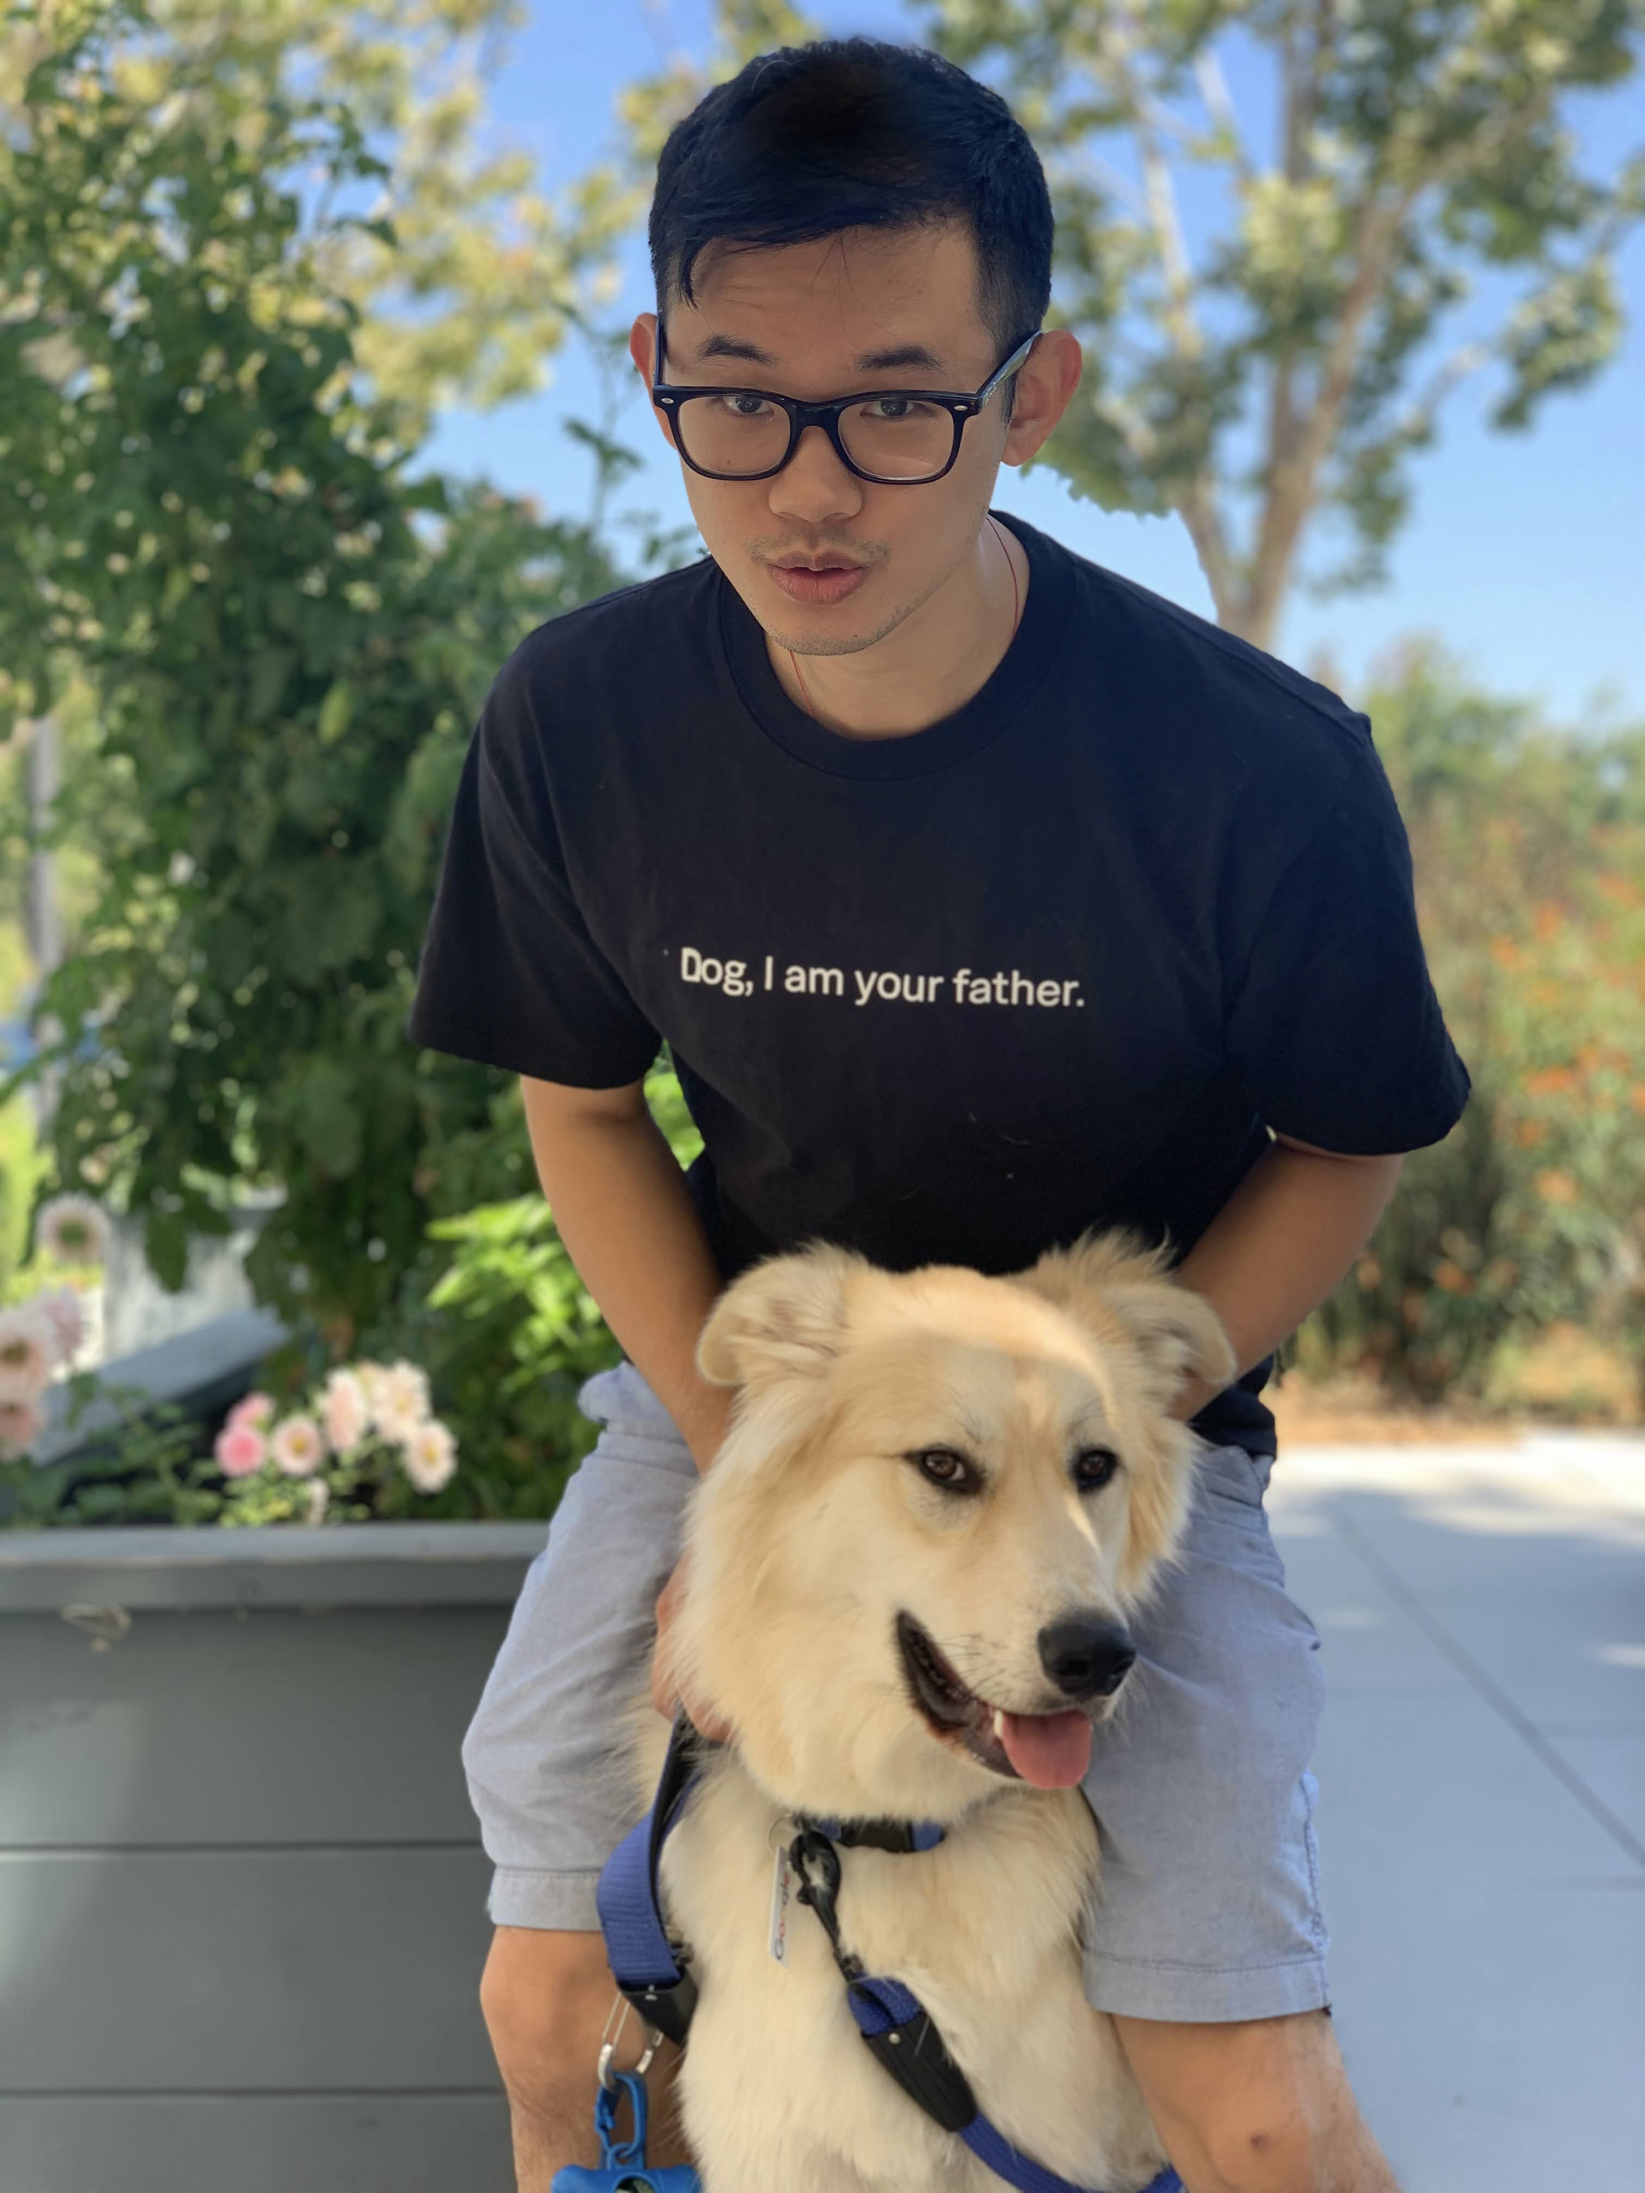
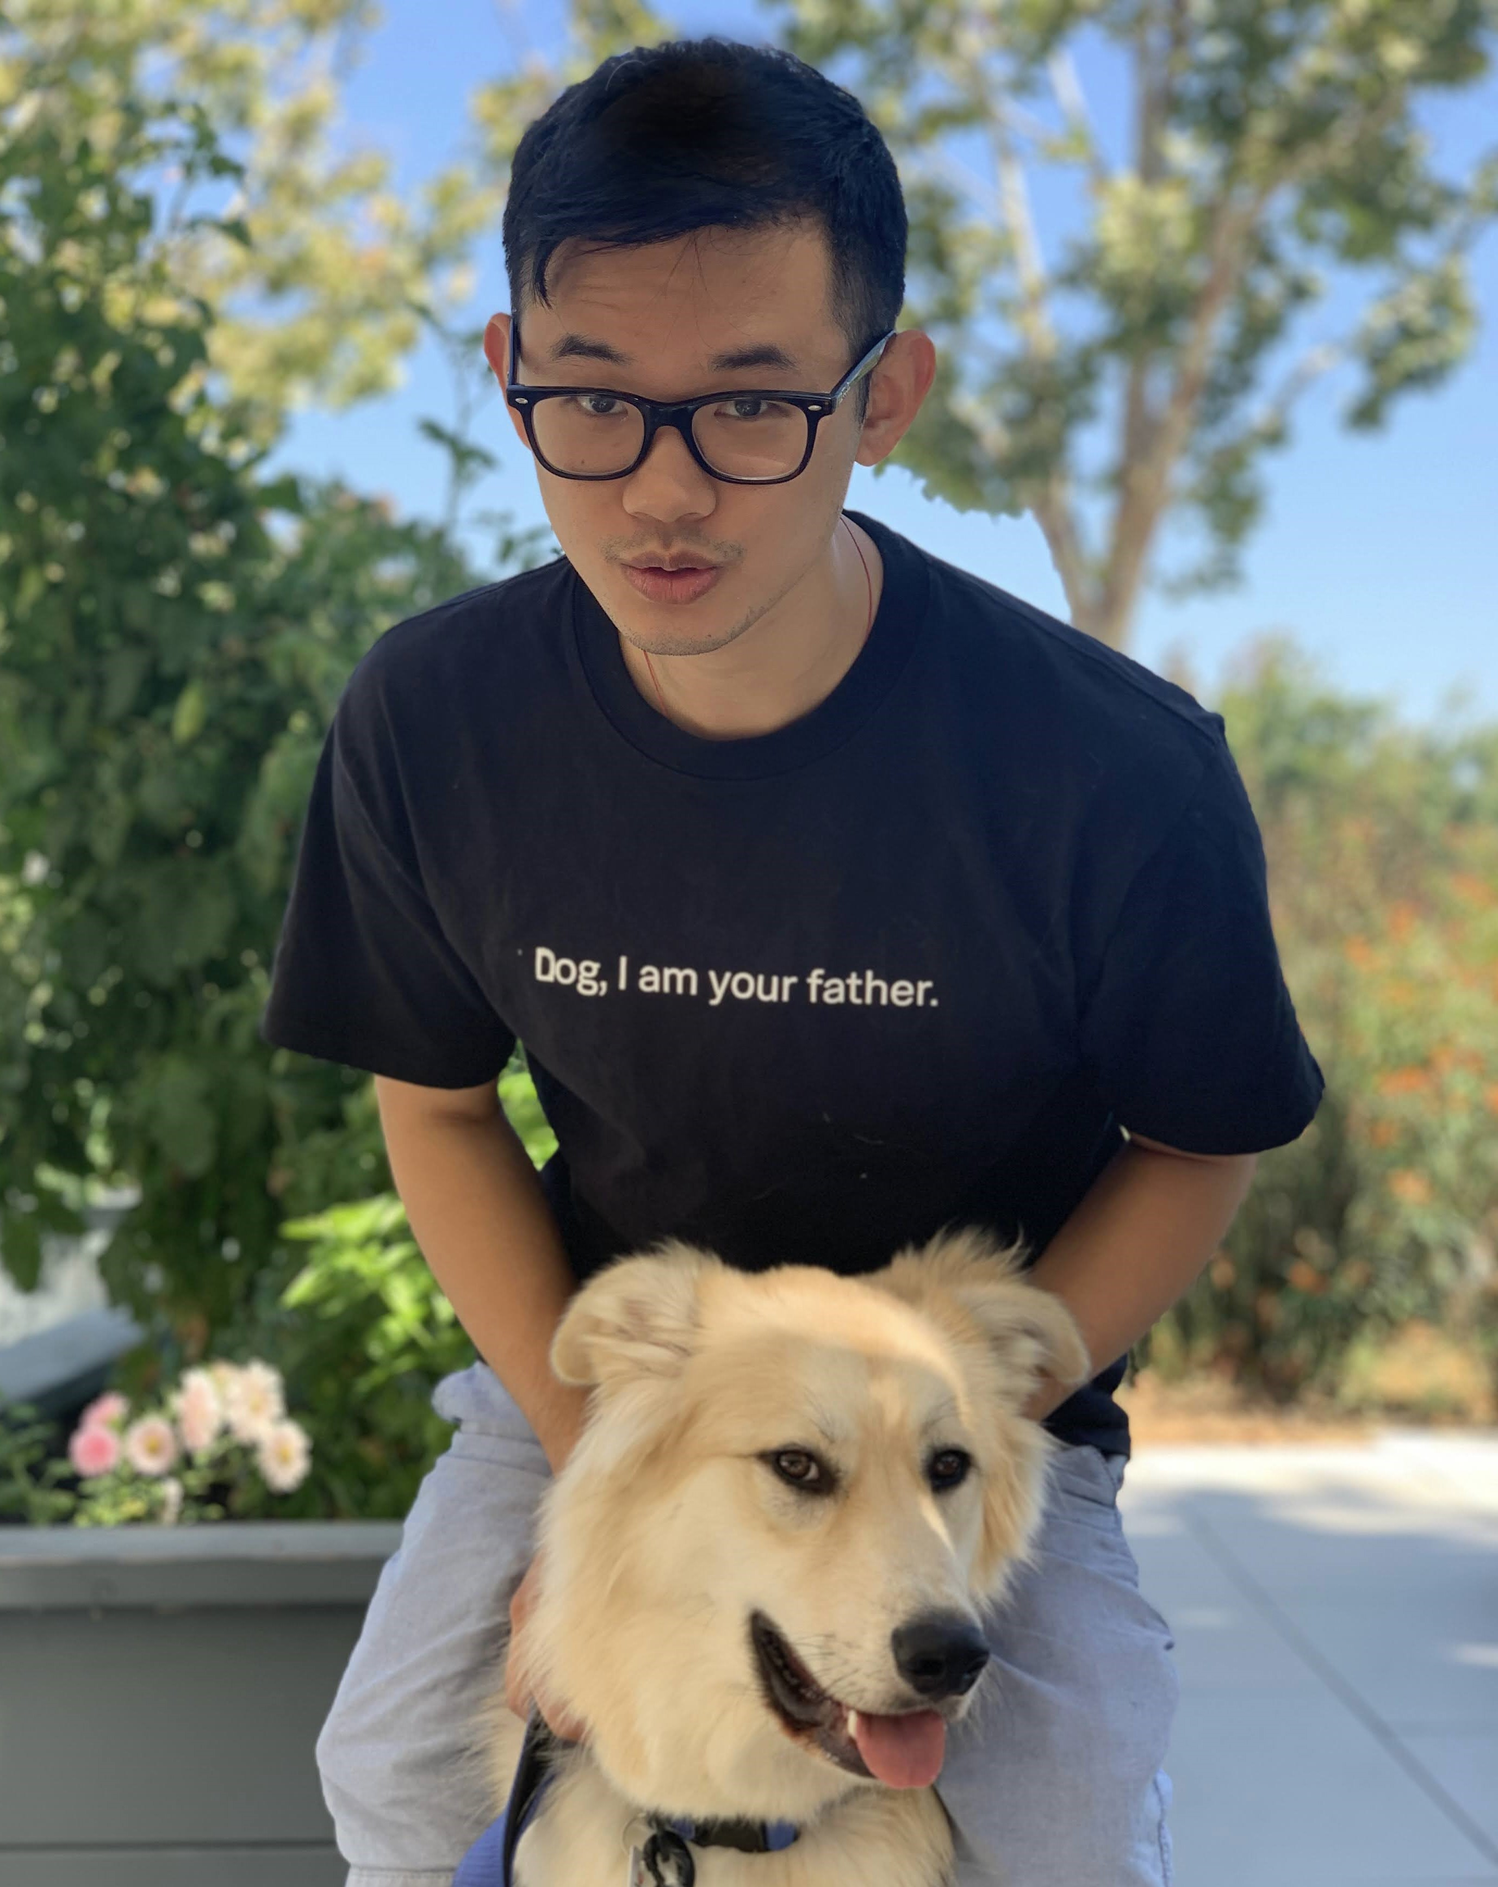
fix heroImg not centered correctly, fix siteLogo & heroWrapper padding when resized small

diff --git a/src/components/Hero.js b/src/components/Hero.js
@@ -31,9 +31,7 @@ export default function Hero({ data }) {
             </TextWrapper>
           </Column1>
           <Column2>
-            <ImgWrap>
               <HeroGatsbyImage image={portraitImg} alt="Portrait" />
-            </ImgWrap>
           </Column2>
         </HeroItems>
       </HeroWrapper>
@@ -91,7 +89,7 @@ const Heading = styled.h1`
   font-weight: 600;
   color: lightgoldenrodyellow;
   @media screen and (max-width: 480px) {
-    font-size: 28px;
+    font-size: 33px;
   }
 `;
 const Subtitle = styled.p`
@@ -103,7 +101,7 @@ const Subtitle = styled.p`
   color: #d2d2fa;
 
   @media screen and (max-width: 480px) {
-    font-size: 18px;
+    font-size: 20px;
   }
 `;
 const Paragraph = styled.p`
@@ -113,20 +111,20 @@ const Paragraph = styled.p`
   font-weight: 300;
   color: whitesmoke;
   @media screen and (max-width: 480px) {
-    font-size: 16px;
+    font-size: 17px;
   }
 `;
 
-const ImgWrap = styled.div`
-  max-width: 420px;
-  height: 100%;
-`;
 const HeroGatsbyImage = styled(GatsbyImage)`
+  position:relative;
+  left: 50%;
+  transform: translate(-50%, 0%);
+  max-width: 420px;
   width: 100%;
   height: auto;
   margin: 0 0 10px 0;
   padding-right: 0;
-  border-radius: 60px;
+  border-radius: 100px;
   opacity: 0.95;
 `;
 
@@ -143,7 +141,7 @@ const HeroBg = styled.div`
 
 const VideoBg = styled.video`
   width: 100%;
-  height: 200%;
+  height: 100%;
   -o-object-fit: cover;
   object-fit: cover;
   /* opacity: 0.38; */
@@ -158,14 +156,9 @@ const HeroWrapper = styled.div`
   max-height: 100%;
   margin-right: auto;
   margin-left: auto;
-  padding: 0rem calc((100vw-1300px) / 2);
-  /* padding: 0 24px; */
+  /* padding: 0rem calc((100vw-1300px) / 2); */
+  padding: 0 12px;
   justify-content: center;
-
-  /* z-index: 3;
-  height: calc(100vh - 80px);
-  padding: 0rem calc((100vw-1300px) / 2);
-  max-height: 100%; */
 `;
 
 const HeroItems = styled.div`

diff --git a/src/components/navbar.js b/src/components/navbar.js
@@ -64,9 +64,9 @@ const NavbarContainer = styled.div`
   z-index: 1;
   width: 100%;
   padding: 0 24px;
-  @media screen and (max-width: 768px) {
+  /* @media screen and (max-width: 800px) {
     padding: 0 12px;
-  }
+  } */
   /* max-width: 1100px; */
 `;
 
@@ -96,7 +96,7 @@ const NavMenu = styled.div`
   display: flex;
   align-items: center;
   margin-right: -48px;
-  @media screen and (max-width: 768px) {
+  @media screen and (max-width: 800px) {
     display: none;
   }
 `;
@@ -106,7 +106,7 @@ const NavBtn = styled.div`
   align-items: center;
   margin-right: 24px;
 
-  @media screen and (max-width: 768px) {
+  @media screen and (max-width: 800px) {
     display: none;
   }
 `;
@@ -115,7 +115,7 @@ const Bars = styled(FaBars)`
   display: none;
   color: whitesmoke;
 
-  @media screen and (max-width: 768px) {
+  @media screen and (max-width: 800px) {
     display: block;
     position: absolute;
     top: 0;

diff --git a/src/styles/globalStyles.js b/src/styles/globalStyles.js
@@ -1,13 +1,13 @@
-import "@fontsource/roboto"; // Defaults to weight 400.
+import "@fontsource/montserrat"; // Defaults to weight 400.
+import "@fontsource/open-sans"; // Defaults to weight 400.
 import { createGlobalStyle } from "styled-components";
 
 export const GlobalStyle = createGlobalStyle`
 * {
-    font-family: 'Roboto', sans-serif;
+    font-family: 'Montserrat';
     box-sizing: border-box;
     margin: 0;
     padding: 0;
-
   }
 
 body {

diff --git a/src/pages/index.js b/src/pages/index.js
@@ -14,7 +14,7 @@ export default function Home({ data }) {
 
 export const query = graphql`
   query Banner {
-    file(relativePath: { eq: "images/cloud2.jpg" }) {
+    file(relativePath: { eq: "images/cloud1.jpg" }) {
       childImageSharp {
         gatsbyImageData(
           layout: FULL_WIDTH

diff --git a/src/styles/Button.js b/src/styles/Button.js
@@ -6,6 +6,7 @@ export const Button = styled(Link)`
   white-space: nowrap;
   padding: ${({ big }) => (big ? `16px 40px` : `10px 32px`)};
   font-size: ${({ big }) => (big ? `20px` : `18px`)};
+  font-weight: 700;
   color: black;
   outline: none;
   border: none;
